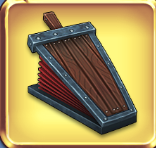
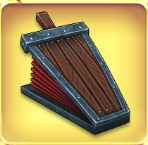
Update templates and add gray attack-start button detection
Recrop template set for consistency and add btn_attack_start_gray
to detect unattackable opponents in attack-prep.

diff --git a/src/bot.py b/src/bot.py
@@ -55,7 +55,7 @@ GEAR_SET_3_COORDS  = (366, 818)
 VIDEO_CLOSE_COORDS = (1522, 94)
 SHOP_COORDS        = (1540, 508)
 GREEN_BACK_COORDS  = (1430, 85)    # back out of attack prep / loading screen
-SCROLL_CONFIRM_COORDS = (812, 832) # ranked-list confirm after scroll — on the
+SCROLL_CONFIRM_COORDS = (896, 785) # ranked-list confirm after scroll — on the
                                    # attack-prep screen this is "New Opponent",
                                    # so never tap it without confirming the screen
 
@@ -279,7 +279,7 @@ class RR2Bot:
                 self.running = False
             except Exception as e:
                 print(f"Error: {e}")
-                time.sleep(2)
+                time.sleep(0.5)
 
     # ── HOME ──────────────────────────────────────────────────────────────────
     def handle_home(self, screen):
@@ -318,42 +318,36 @@ class RR2Bot:
             # icon is missing because a popup/shop leftover is covering the screen
             # (e.g. after the GAME_LOAD food-purchase flow didn't fully close out),
             # waiting up to 6 misses to even try closing it just prolongs being stuck.
+            
+            collect = self.vision.find_template(screen, "btn_collect", threshold=0.80)
+            if collect:
+                print(f"[HOME] {self._trophy_miss_count}th miss → pressing btn_collect...")
+                self.adb.tap(collect[0], collect[1])
+                time.sleep(3.5)
+                self.adb.tap(1524, 86)
+
             close = self.vision.find_template(screen, "btn_close", threshold=0.57)
             if close:
                 print("[HOME] Pressing btn_close...")
                 self.adb.tap(close[0], close[1])
-                time.sleep(0.5)
+                time.sleep(0.3)
 
             if self._trophy_miss_count % 2 == 0:
                 self.adb.tap(10, 10)
                 time.sleep(0.1)
 
-            if self._trophy_miss_count % 6 == 0:
+            if self._trophy_miss_count % 10 == 0:
                 btn_big_collect = self.vision.find_template(screen, "btn_big_collect", threshold=0.80)
                 if btn_big_collect:
                     print("[HOME] btn_big_collect found, tapping...")
                     self.adb.tap(btn_big_collect[0], btn_big_collect[1])
-                    time.sleep(0.5)
+                    time.sleep(1)
 
-            if self._trophy_miss_count % 10 == 0:
                 league = self.vision.find_template(screen, "btn_collect_league", threshold=0.80)
                 if league:
                     print(f"[HOME] {self._trophy_miss_count}th miss → pressing btn_collect_league...")
                     self.adb.tap(league[0], league[1])
-                    time.sleep(1.0)
-
-            if self._trophy_miss_count % 5 == 0:
-                collect = self.vision.find_template(screen, "btn_collect", threshold=0.80)
-                if collect:
-                    print(f"[HOME] {self._trophy_miss_count}th miss → pressing btn_collect...")
-                    self.adb.tap(collect[0], collect[1])
-                    time.sleep(3.5)
-                    self.adb.tap(1524, 86)
-                else:
-                    close = self.vision.find_template(screen, "btn_close", threshold=0.80)
-                    if close:
-                        print("[HOME] No collect found, trying btn_close...")
-                        self.adb.tap(close[0], close[1])
+                    time.sleep(1)
 
     # ── Helper: identify the actual screen from its anchor template(s) ───────
     def _find_state(self, screen):
@@ -417,7 +411,7 @@ class RR2Bot:
     def _scroll_list(self, times=1, before_screen=None):
         for _ in range(times):
             self.adb.swipe(650, 600, 650, 300, 300)
-            time.sleep(0.4)
+            time.sleep(0.6)
         # Guard the blind confirm tap — if we are actually on the attack-prep
         # screen this coordinate is "New Opponent" (unfiltered reroll, costs trophies).
         f = self.adb.current_screen()
@@ -456,7 +450,7 @@ class RR2Bot:
             if self._scroll_no_progress >= 2:
                 print("[SCROLL] List appears exhausted — returning to TROPHY_MENU for a fresh search.")
                 self.adb.tap(*GREEN_BACK_COORDS)
-                time.sleep(0.6)
+                time.sleep(0.5)
                 self.state = State.TROPHY_MENU
                 self._scroll_no_progress = 0
         else:
@@ -630,7 +624,7 @@ class RR2Bot:
             time.sleep(0.1)
             self.adb.tap(pos[0], pos[1])
             self.state = State.GAME_LOAD
-            time.sleep(0.2)
+
         elif time.time() - self._attack_prep_start > 12:
             self._leave_attack_prep("Button not found within 12s")
         else:
@@ -652,25 +646,25 @@ class RR2Bot:
             print("[CAPTURE_INACTIVES] Attackable — rerolling for another opponent...")
             self.adb.tap(*SCROLL_CONFIRM_COORDS)
             self._capture_wait_start = time.time()
-            time.sleep(1)
+            time.sleep(0.5)
             return
         if gray:
             print("[CAPTURE_INACTIVES] Gray button already recognized — rerolling for more...")
             self.adb.tap(*SCROLL_CONFIRM_COORDS)
             self._capture_wait_start = time.time()
-            time.sleep(1)
+            time.sleep(0.5)
             return
         if self._capture_wait_start == 0:
             self._capture_wait_start = time.time()
             return
-        if time.time() - self._capture_wait_start >= 10:
+        if time.time() - self._capture_wait_start >= 15:
             ts   = time.strftime('%Y%m%d_%H%M%S')
             path = os.path.join(CAPTURED_INACTIVES_DIR, f'{ts}_unrecognized_attack_prep.png')
             cv2.imwrite(path, screen)
             print(f"[CAPTURE_INACTIVES] Neither button recognized for 10s — saved {path}")
             self.adb.tap(*SCROLL_CONFIRM_COORDS)
             self._capture_wait_start = time.time()
-            time.sleep(1)
+            time.sleep(0.5)
 
     # ── GAME_LOAD ─────────────────────────────────────────────────────────────
     def handle_game_load(self, screen):
@@ -859,7 +853,7 @@ class RR2Bot:
             if pes:
                 print(f"[COF] Give up (1 buttons), tapping leftmost: {pes}")
                 self.adb.tap(pes[0], pes[1])
-                time.sleep(3)
+                time.sleep(2.25)
                 self._cof_tap_home()
                 return
 

diff --git a/src/controller.py b/src/controller.py
@@ -165,7 +165,7 @@ class ADBController:
         else:
             print(f"[ADB] Could not resolve launcher activity, falling back to monkey: {package}")
             self.device.shell(f"monkey -p {package} -c android.intent.category.LAUNCHER 1")
-        time.sleep(5)
+        time.sleep(13)
 
 
 if __name__ == "__main__":
